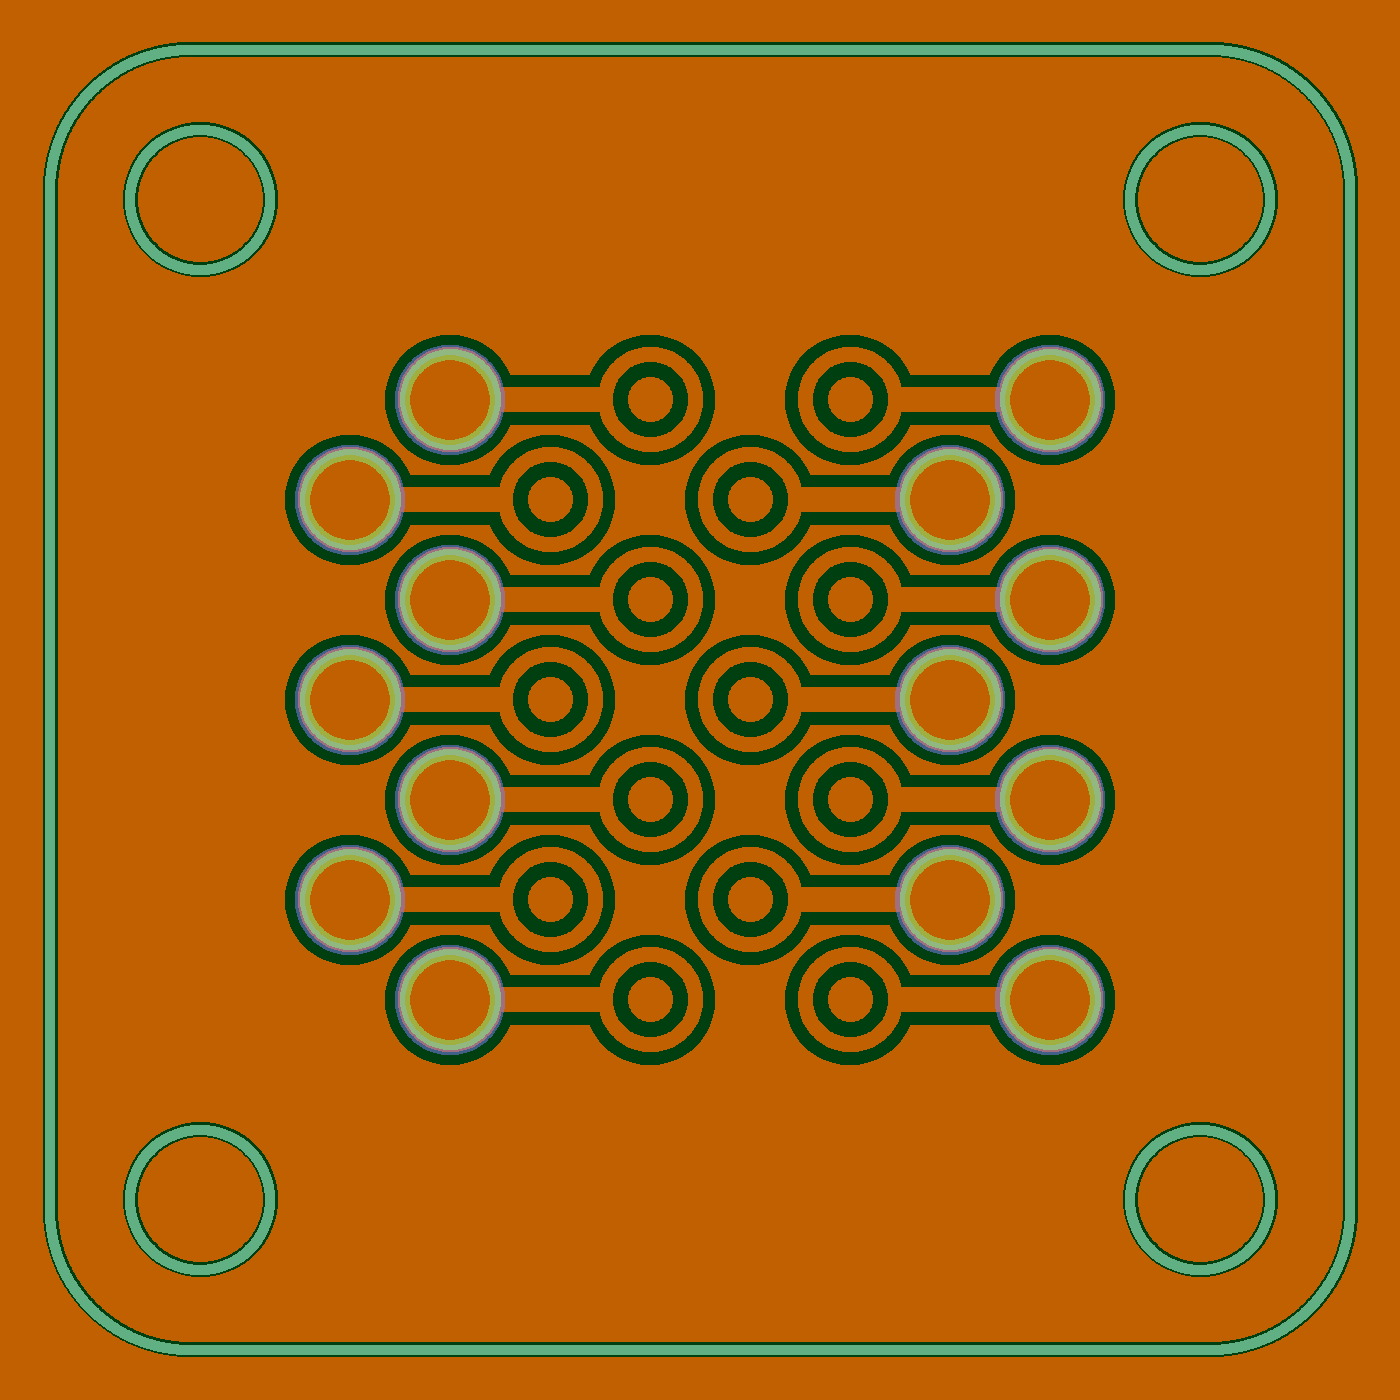
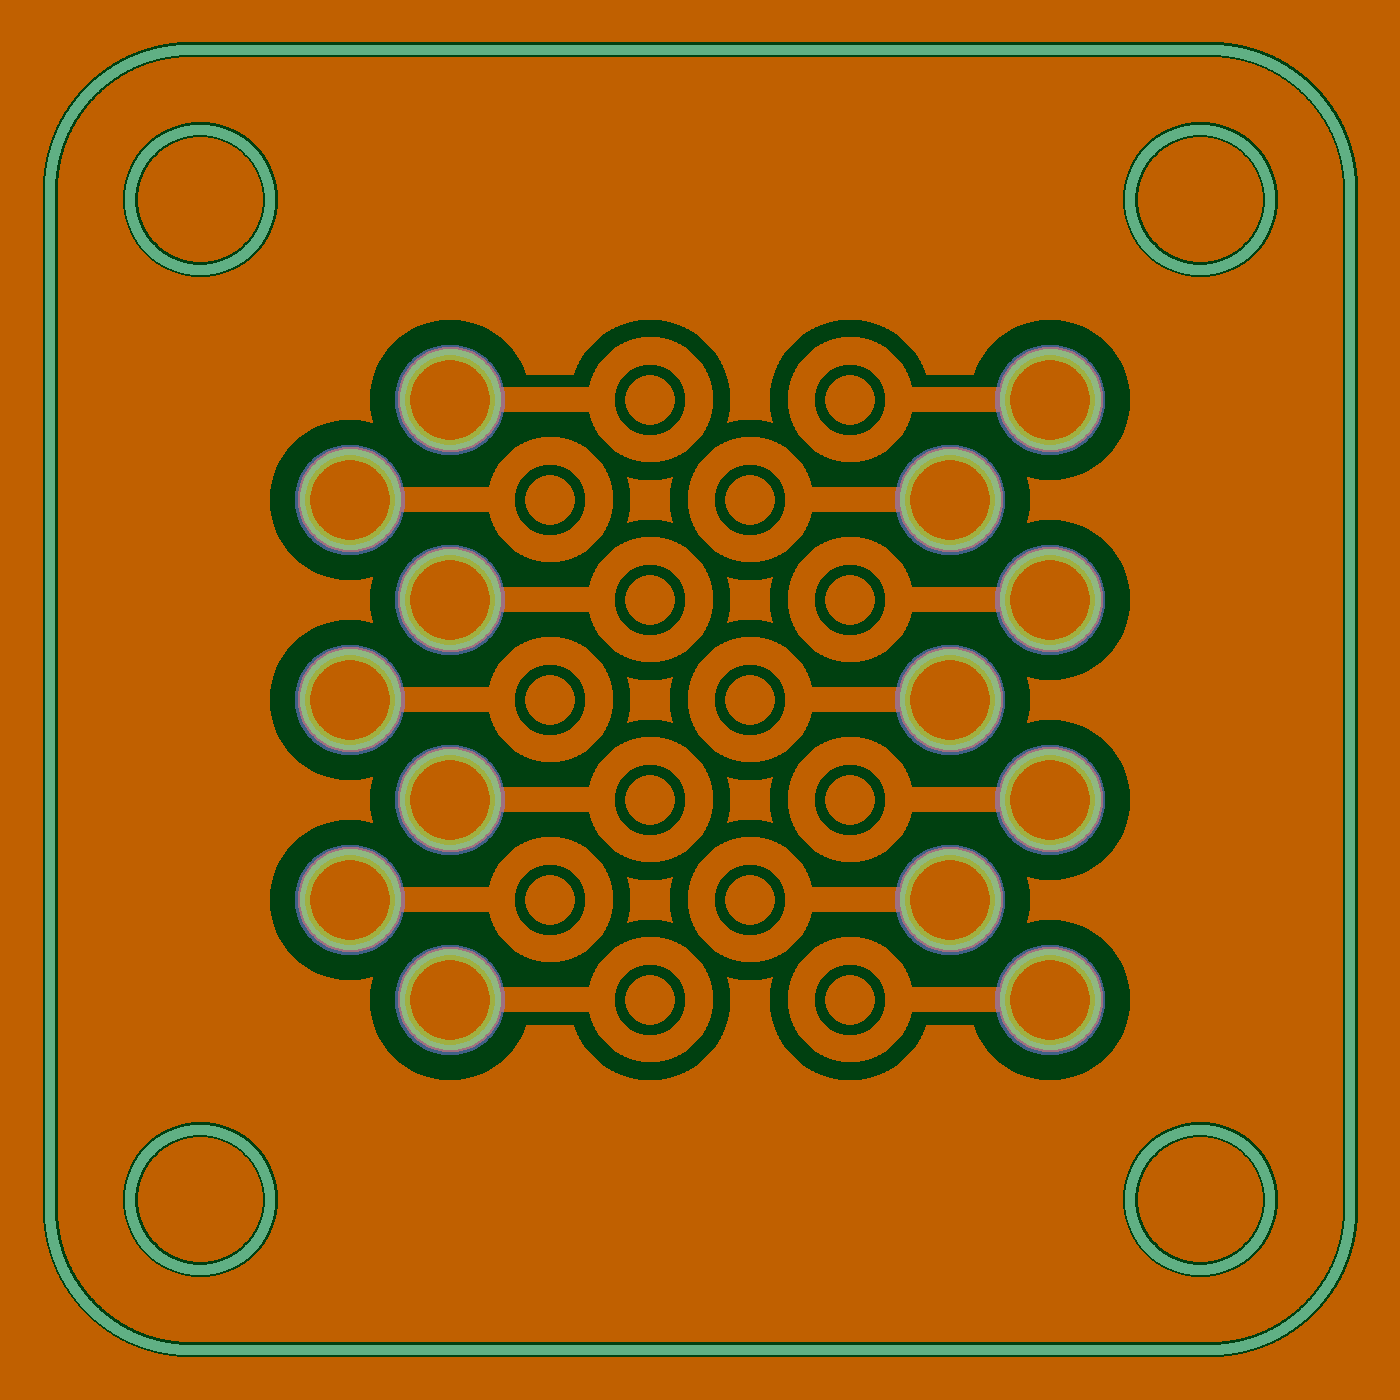
Rivets: make ring thicker

diff --git a/eda/lib/via/rivet/rivet_test.go b/eda/lib/via/rivet/rivet_test.go
@@ -30,17 +30,25 @@ func TestBoard(t *testing.T) {
 		},
 	}
 
-	rivets := eda.Components{
-		Rivet06mm.Arrange(transform.Move(-1, 0)),
-		Rivet06mm.Arrange(transform.Move(1, 0)),
+	rivets := &eda.Component{
+		Components: eda.Components{
+			Rivet06mm.Arrange(transform.Move(-1, 0)),
+			Rivet06mm.Arrange(transform.Move(1, 0)),
+		},
 	}
 
 	rivetPairTop := &eda.Component{
-		Components: rivets,
+		Components: eda.Components{
+			rivets,
 
-		Pads: path.Paths{
-			path.Circle(1).Transform(transform.Move(-3, 0)),
-			path.Circle(1).Transform(transform.Move(3, 0)),
+			{
+				ClearWidth: 0.35,
+
+				Pads: path.Paths{
+					path.Circle(1).Transform(transform.Move(-3, 0)),
+					path.Circle(1).Transform(transform.Move(3, 0)),
+				},
+			},
 		},
 
 		Tracks: eda.Tracks(
@@ -50,7 +58,9 @@ func TestBoard(t *testing.T) {
 	}
 
 	rivetPairBottom := &eda.Component{
-		Components: rivets,
+		Components: eda.Components{
+			rivets,
+		},
 
 		Tracks: eda.Tracks(
 			eda.Track{{-1, 0}, {1, 0}},

diff --git a/eda/lib/via/rivet/rivet.go b/eda/lib/via/rivet/rivet.go
@@ -10,12 +10,14 @@ import (
 var Rivet06mm = &eda.Component{
 	NoOpening: true,
 
-	TrackWidth: 0.2,
+	ClearWidth: 0.25,
 
-	Pads: path.Paths{path.Circle(1)},
+	Pads: path.Paths{path.Circle(1.2)},
 
 	Components: eda.Components{
 		{
+			ClearWidth: 0.15,
+
 			OuterCut: true,
 
 			Cuts: path.Paths{path.Circle(0.6)},
